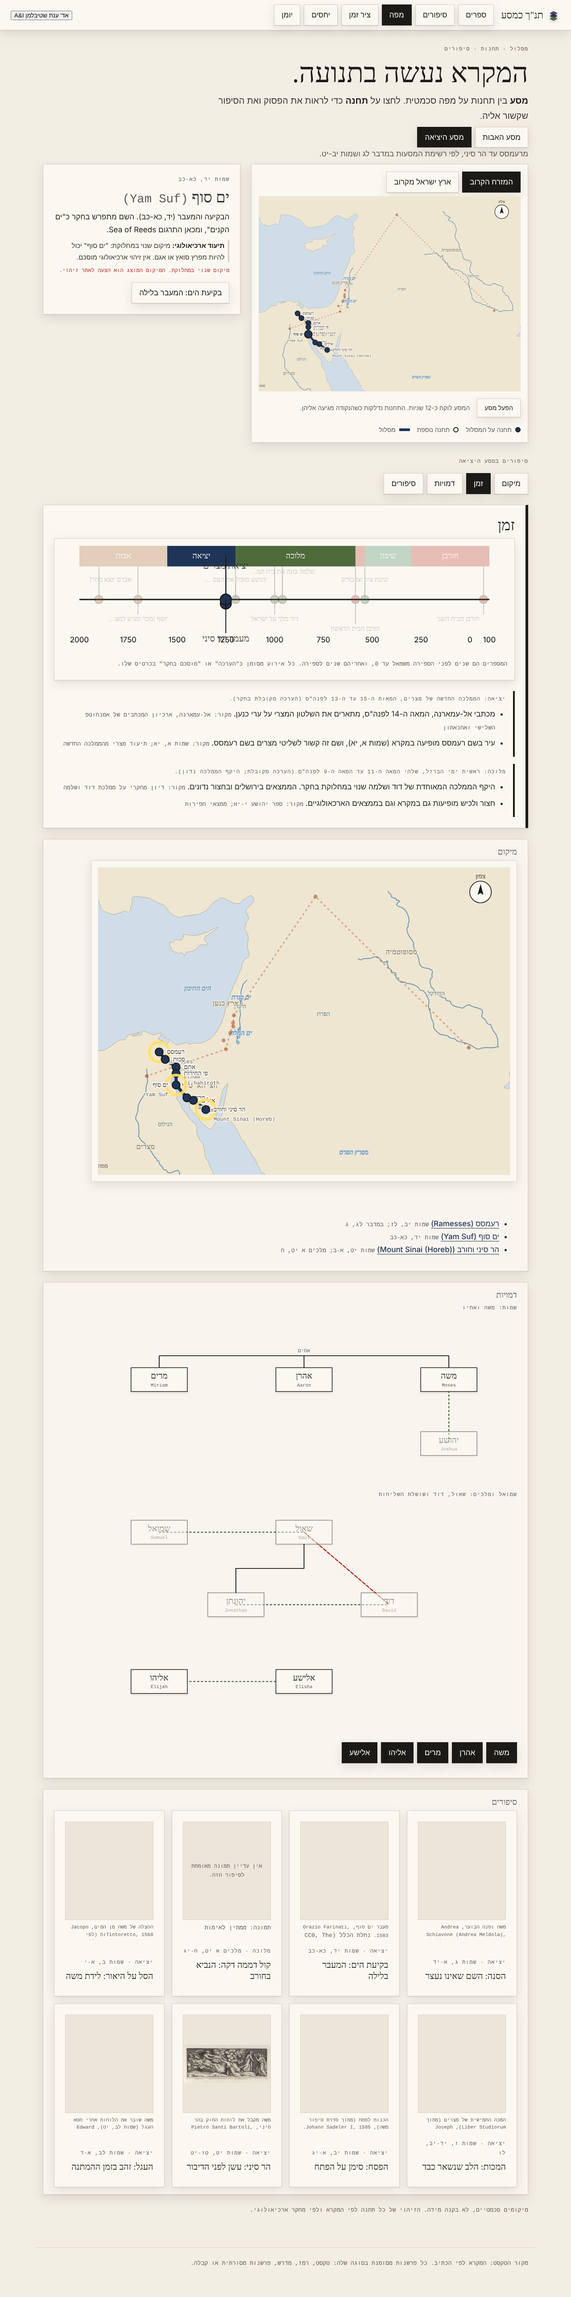
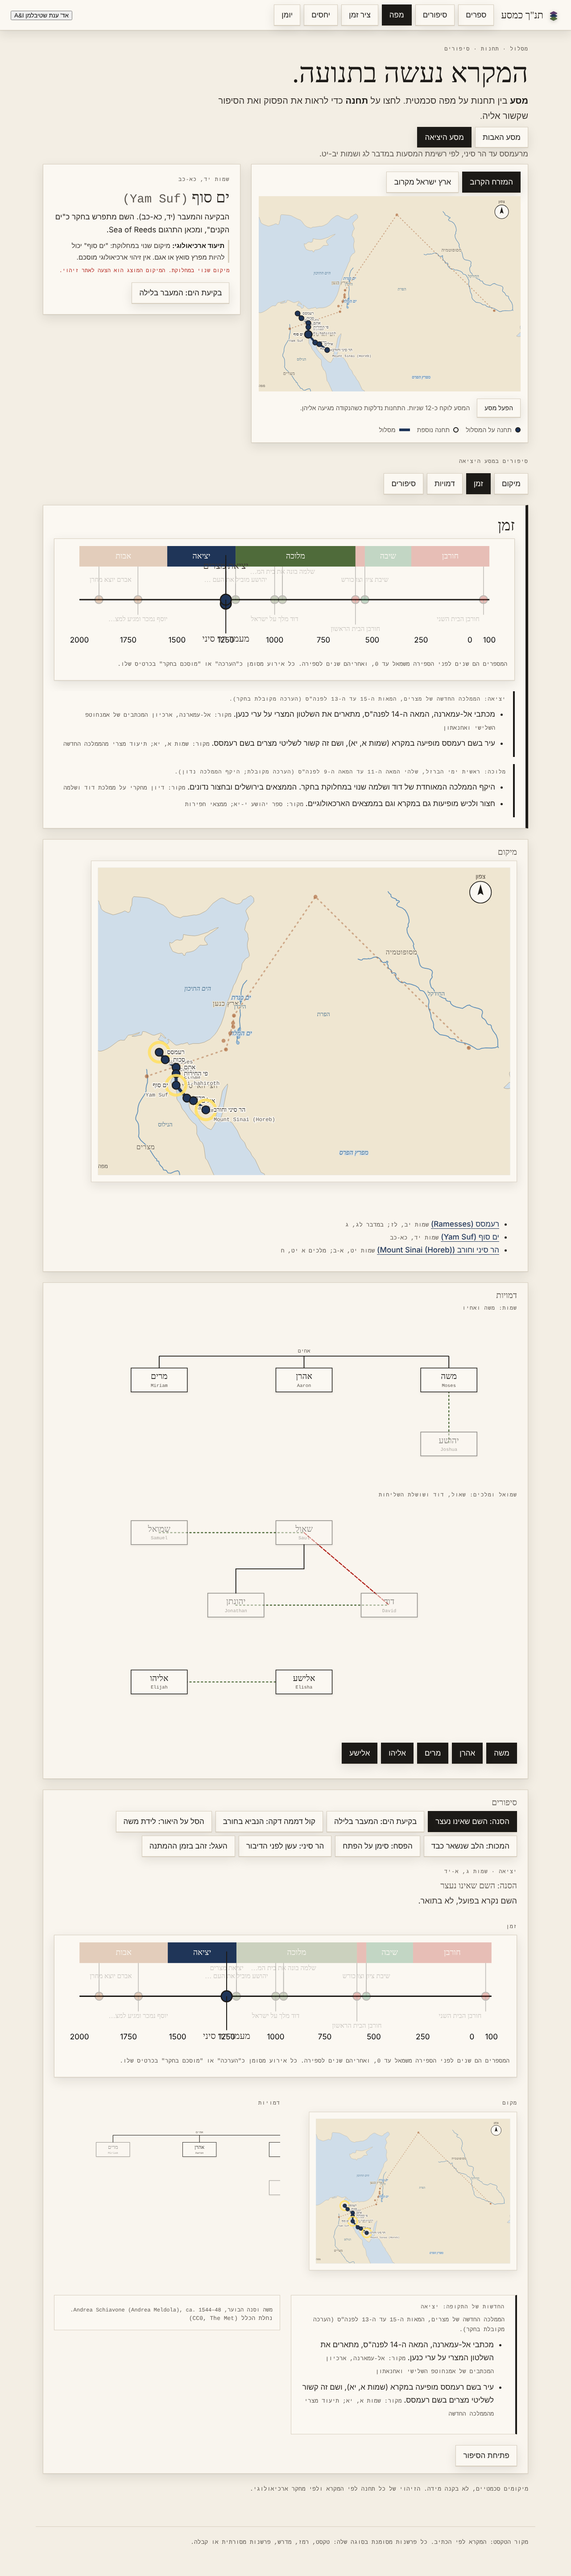
Stories as one linked atlas: time, map and people in a single view
- A set of stories is shown as one picture, not a row of cards
- Choosing a story lights its point on the year scale, its stop on the map, and its people in the family tree
- The era's news and the story's picture sit below the same focus
- Family trees scroll left-to-right so nothing overflowing is cut off
- E2E: 46 checks

Claude-Session: https://claude.ai/code/session_018qeN17mCFRaqmZ26WBzJgY

diff --git a/src/components/StoryAtlas.tsx b/src/components/StoryAtlas.tsx
@@ -1,0 +1,123 @@
+import { useState } from 'react';
+import TimeTrack from './TimeTrack';
+import RouteMap from './RouteMap';
+import FamilyTree from './FamilyTree';
+import { ROUTES } from '../content/route';
+import { TREES } from '../content/families';
+import { TIMELINE, ERA_SPAN } from '../content/timeline';
+import { ART } from '../content/art';
+import { ERA_CONTEXT } from '../content/context';
+import type { Story } from '../types';
+
+// One picture for a set of stories: the year scale, the map, and the family trees, linked by the story in focus.
+// Choosing a story in the strip lights its point on the time scale, its stop on the map, and its people in the tree.
+export default function StoryAtlas({ stories }: { stories: Story[] }) {
+  const [focusId, setFocusId] = useState(stories[0]?.id ?? '');
+  const story = stories.find((s) => s.id === focusId) ?? stories[0];
+  if (!story) return null;
+
+  const event = TIMELINE.find((e) => e.storyId === story.id);
+  const route = ROUTES.find((r) => r.stops.some((st) => st.storyIds.includes(story.id)));
+  const stopIds = route ? route.stops.filter((st) => st.storyIds.includes(story.id)).map((st) => st.id) : [];
+  // Stories in the set that have a place on the map, for the highlighted stops across the set.
+  const setStopIds = route ? route.stops.filter((st) => stories.some((s) => st.storyIds.includes(s.id))).map((st) => st.id) : [];
+  const tree = TREES.find((t) => t.nodes.some((n) => story.people.includes(n.id)));
+  const context = ERA_CONTEXT[story.era];
+  const span = ERA_SPAN[story.era];
+  const art = ART[story.id];
+
+  return (
+    <div className="atlas">
+      <nav className="atlas-strip" aria-label="בחירת סיפור">
+        {stories.map((s) => (
+          <button
+            key={s.id}
+            type="button"
+            className={`chip press${s.id === story.id ? ' is-active' : ''}`}
+            aria-pressed={s.id === story.id}
+            onClick={() => setFocusId(s.id)}
+          >
+            {s.title}
+          </button>
+        ))}
+      </nav>
+
+      <section className="atlas-focus">
+        <div className="atlas-head">
+          <p className="eyebrow">
+            {story.era} · {story.ref}
+          </p>
+          <h2>{story.title}</h2>
+          <p className="atlas-insight">{story.insight}</p>
+        </div>
+
+        <div className="atlas-time">
+          <p className="eyebrow">זמן</p>
+          <TimeTrack highlightEras={[story.era]} highlightIds={event ? [event.id] : []} />
+          {!event && (
+            <p className="source">
+              לסיפור הזה אין אירוע מתוארך בציר. התקופה שלו: {story.era}
+              {span[0] !== span[1] && `, בערך ${Math.abs(span[0])} עד ${Math.abs(span[1])} לפנה"ס`}.
+            </p>
+          )}
+        </div>
+
+        <div className="atlas-geo">
+          <p className="eyebrow">מקום</p>
+          {route && stopIds.length > 0 ? (
+            <div className="map-frame">
+              <RouteMap
+                route={route}
+                selectedId={null}
+                onSelect={() => undefined}
+                playToken={0}
+                highlightStopIds={setStopIds}
+                zoom="wide"
+              />
+            </div>
+          ) : (
+            <p className="muted">לסיפור הזה אין עדיין תחנה במפה.</p>
+          )}
+        </div>
+
+        <div className="atlas-people">
+          <p className="eyebrow">דמויות</p>
+          {tree ? (
+            <div className="tree-scroll">
+              <FamilyTree tree={tree} highlight={story.people} />
+            </div>
+          ) : (
+            <p className="muted">לסיפור הזה אין עדיין עץ משפחתי.</p>
+          )}
+        </div>
+
+        <div className="atlas-context">
+          <p className="eyebrow">החדשות של התקופה: {story.era}</p>
+          <p className="source">{context.years}</p>
+          <ul className="plain-list">
+            {context.facts.map((f) => (
+              <li key={f.text}>
+                {f.text} <span className="source">מקור: {f.source}</span>
+              </li>
+            ))}
+          </ul>
+        </div>
+
+        {art && (
+          <figure className="atlas-art">
+            <img src={art.src} alt={art.title} loading="lazy" />
+            <figcaption className="art-caption">
+              {art.title}, {art.artist}, {art.year}. <span className="source">{art.license}</span>
+            </figcaption>
+          </figure>
+        )}
+
+        <p className="atlas-link">
+          <a className="chip press" href={`#/stories/${story.id}`}>
+            פתיחת הסיפור
+          </a>
+        </p>
+      </section>
+    </div>
+  );
+}

diff --git a/src/components/Correlation.tsx b/src/components/Correlation.tsx
@@ -1,5 +1,6 @@
 import { useState } from 'react';
 import RouteMap from './RouteMap';
+import StoryAtlas from './StoryAtlas';
 import TimeTrack from './TimeTrack';
 import FamilyTree from './FamilyTree';
 import { ROUTES } from '../content/route';
@@ -144,39 +145,7 @@ export default function Correlation({ stories, title, initial = 'stories', eras 
       );
     }
     return (
-      <div className="corr-stories grid cards">
-        {stories.map((s) => {
-          const art = ART[s.id];
-          // Every card has the same frame: the image sits in it, or a note says none is verified yet.
-          // Text starts at the same line in every card because the frame has a fixed height.
-          return (
-            <a key={s.id} href={`#/stories/${s.id}`} className="card link-card press story-card">
-              <div className="story-card-frame">
-                {art ? (
-                  <img src={art.src} alt={art.title} loading="lazy" />
-                ) : (
-                  <p className="story-card-empty">אין עדיין תמונה מאומתת לסיפור הזה.</p>
-                )}
-              </div>
-              <p className="story-card-caption">
-                {art ? (
-                  <>
-                    {art.title}, {art.artist}, {art.year}. <span className="source">{art.license}</span>
-                  </>
-                ) : (
-                  <span className="source">תמונה: ממתין לאימות</span>
-                )}
-              </p>
-              <div className="story-card-text">
-                <p className="eyebrow">
-                  {s.era} · {s.ref}
-                </p>
-                <h3>{s.title}</h3>
-              </div>
-            </a>
-          );
-        })}
-      </div>
+      <StoryAtlas stories={stories} />
     );
   };
 

diff --git a/src/styles.css b/src/styles.css
@@ -1494,3 +1494,80 @@ h3 {
 .story-card-text h3 {
   font-size: 20px;
 }
+
+/* ===== Story atlas: one linked picture per set of stories ===== */
+.atlas {
+  display: grid;
+  gap: var(--s4);
+}
+.atlas-strip {
+  display: flex;
+  flex-wrap: wrap;
+  gap: var(--s2);
+}
+.atlas-focus {
+  display: grid;
+  gap: var(--s4);
+  grid-template-columns: minmax(0, 1fr);
+}
+@media (min-width: 900px) {
+  .atlas-focus {
+    grid-template-columns: minmax(0, 1fr) minmax(0, 1fr);
+    align-items: start;
+  }
+  .atlas-head,
+  .atlas-time {
+    grid-column: 1 / -1;
+  }
+}
+.atlas-head h2 {
+  font-size: 30px;
+}
+.atlas-insight {
+  font-size: 18px;
+  color: #3b3530;
+}
+.atlas-art {
+  margin: 0;
+  background: var(--paper);
+  border: 1px solid var(--line);
+  padding: var(--s3);
+}
+.atlas-art img {
+  display: block;
+  width: 100%;
+  height: auto;
+  max-height: 340px;
+  object-fit: contain;
+}
+.atlas-context {
+  background: var(--paper);
+  border: 1px solid var(--line);
+  padding: var(--s3) var(--s4);
+  border-inline-start: 4px solid var(--ink);
+}
+.atlas-people .family-tree {
+  min-width: 620px;
+}
+.atlas-link {
+  margin: 0;
+}
+.atlas,
+.atlas > *,
+.atlas-focus > *,
+.atlas-time,
+.atlas-geo,
+.atlas-people,
+.atlas-context {
+  min-width: 0;
+  max-width: 100%;
+}
+.atlas-people .tree-scroll {
+  overflow-x: auto;
+  max-width: 100%;
+}
+.atlas-people .tree-scroll,
+.tree-panel,
+.corr-people .tree-scroll {
+  direction: ltr;
+}
